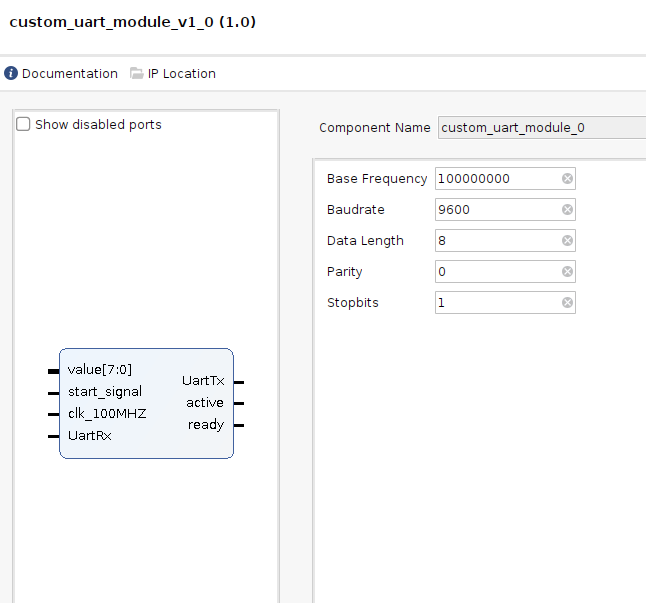
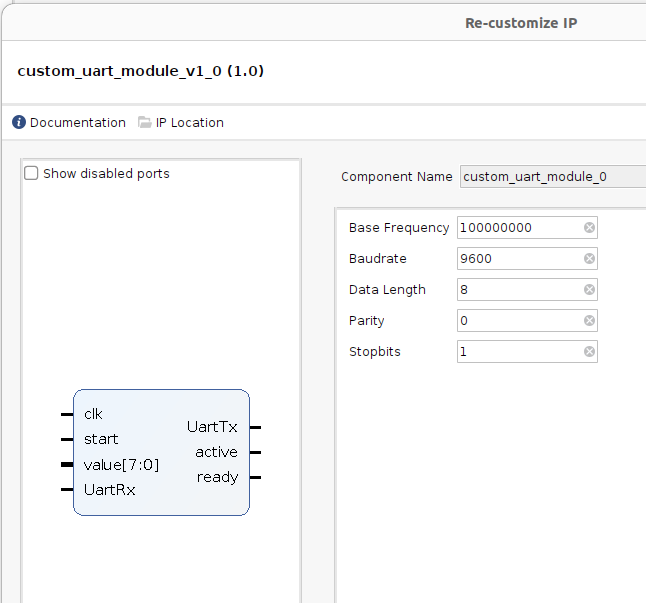
Update documentation

diff --git a/README.md b/README.md
@@ -2,12 +2,48 @@
 
 This repository contains a raw UART module implemented in Verilog. 
 
+## 1. Interface 
+It provides the following input and output connections: 
 
-![figure](doc/figures/UART/Customization.png)
+| Signal       | Description                                                       |
+|--------------|-------------------------------------------------------------------|
+| clk          | Input clock must match the parameter Base Frequency               |
+| start_signal | Must be set to HIGH until the active signal changes to HIGH.      |
+| value        | 8 Bit input value to write.                                       |
+| UartRx       | Input rx signal reading data from the UART bus.                   |
+| UartRx       | Output tx signal to send data on a UART but                       |
+| active       | HIGH indicates that the module is currently processing.           |
+| ready        | Indicating for one clock cycle that the current task was executed |
 
 
-<br> It was developed and tested on a Digilent Atlys board using a Xilinx Spartan-6 FPGA. 
+## 2. Custom parameters
 
-![figure](doc/figures/UART/UART_Simulation.png)
+| Parameter     | Description                                                       |
+|---------------|-------------------------------------------------------------------|
+| Base Frequeny | Input frequency in Hz.                                            |
+| Baudrate      | Number of chars per time unit. Possible deviations occur when the base frequency is not devidable by the base frequency!      |
+| Data Length   | Currently only 8 bit supported.
+| Parity        | Supported 0: None, 1: Even, 2: Oddd                   |
+| Stopbits      | 1 or 2 stopbits are supported                       |
+
+
+## 3. Block design
+
+The module can be added to the block diagram, by adding the **ip** folder to the IP-catalog as repository.
+
+![figure](doc/figures/Customization.png)
+
+
+## 3. Simulation
+
+The module was tested and verified by a test bench.
+
+
+![figure](doc/figures/UART_Simulation.png)
 
 This figure shows a simulation of the verilog module sending 11011101 (187) with parity even and one stop bit.
+
+
+## 4. Tested devices
+
+ It was developed and tested on a Digilent Atlys board using a Xilinx Spartan-6 FPGA as well as a PYNQ Z2.
